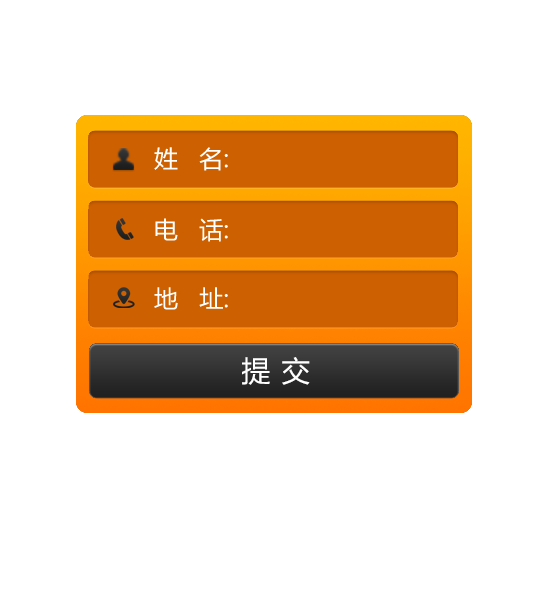
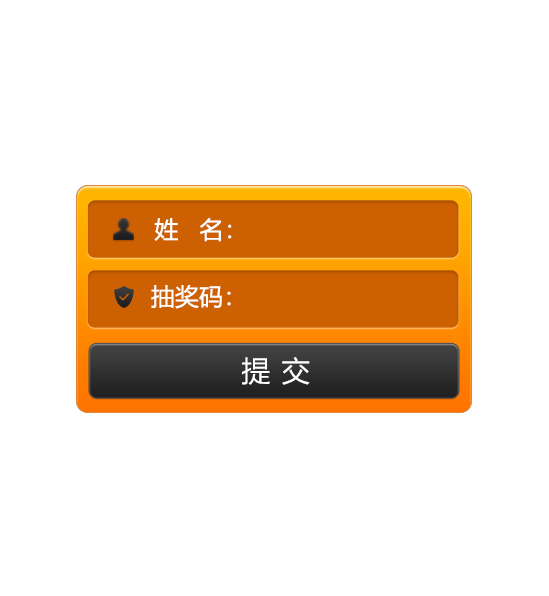
change prize show style

Changed region(s): [[0.1239, 0.1812, 0.867, 0.6946], [0.1858, 0.4832, 0.2477, 0.5134]]

diff --git a/css/css.css b/css/css.css
@@ -118,7 +118,7 @@ input{font-family:"΢���ź�";}
 .p0.active div.hand{opacity:1; transition-delay:1.2s;-webkit-transition-delay:1.2s;-moz-transition-delay:1.2s;-o-transition-delay:1.2s;-webkit-transform:scale(1, 1);-ms-transform:scale(1, 1);-moz-transform:scale(1,1);-o-transform:scale(1, 1);transform:scale(1, 1);}
 .p0 div.hand a{ display:block; margin:16px auto 0; width:135px; height:135px;border-radius:50%}
 
-.p0 div.t4{ height:1500px; top:620px; width:90%;left:5%;}
+.p0 div.t4{ height:1200px; top:620px; width:90%;left:5%; background: url(../images/butterfly.png) bottom center no-repeat;background-size: 50% auto;}
 
 .opwin{ background:rgba(0,0,0,0.8) ; width:100%; height:100%; position:fixed; left:0; top:0; z-index:99; display:none}
 .opwin div{  width:550px; height:642px; position:absolute; left:50%; margin-left:-275px; top:50%; margin-top:-321px;}
@@ -126,7 +126,7 @@ input{font-family:"΢���ź�";}
 .opwin div ul:nth-child(1){background:url(../images/t10.png) no-repeat center top;}
 .opwin div ul:nth-child(1) li{height:45px; width:360px; margin:0 auto; text-align:right;}
 .opwin div ul:nth-child(1) li+li {}
-.opwin div ul:nth-child(1) li.c1{ padding-top:135px; margin-bottom:25px;}
+.opwin div ul:nth-child(1) li.c1{ padding-top:205px; margin-bottom:25px;}
 .opwin div ul:nth-child(1) li.c2{ margin-top:22px;}
 .opwin div ul:nth-child(1) li.c3{ margin-top:28px;}
 .opwin div ul:nth-child(1) input.txt{ font-size:2rem; line-height:45px; height:100%; width:215px; border:0; background:none; outline:none; margin-bottom:10px; color:#fff}
